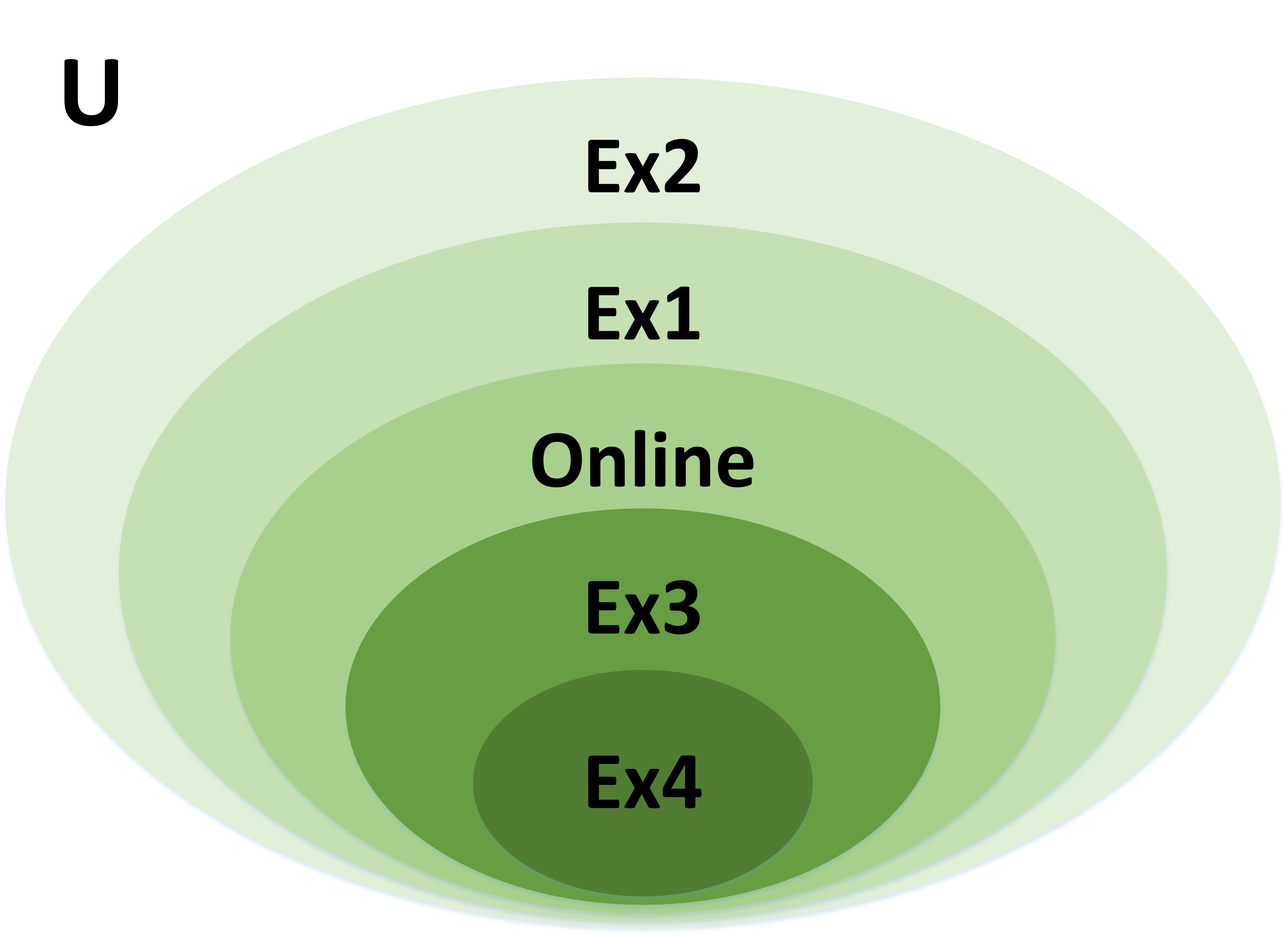
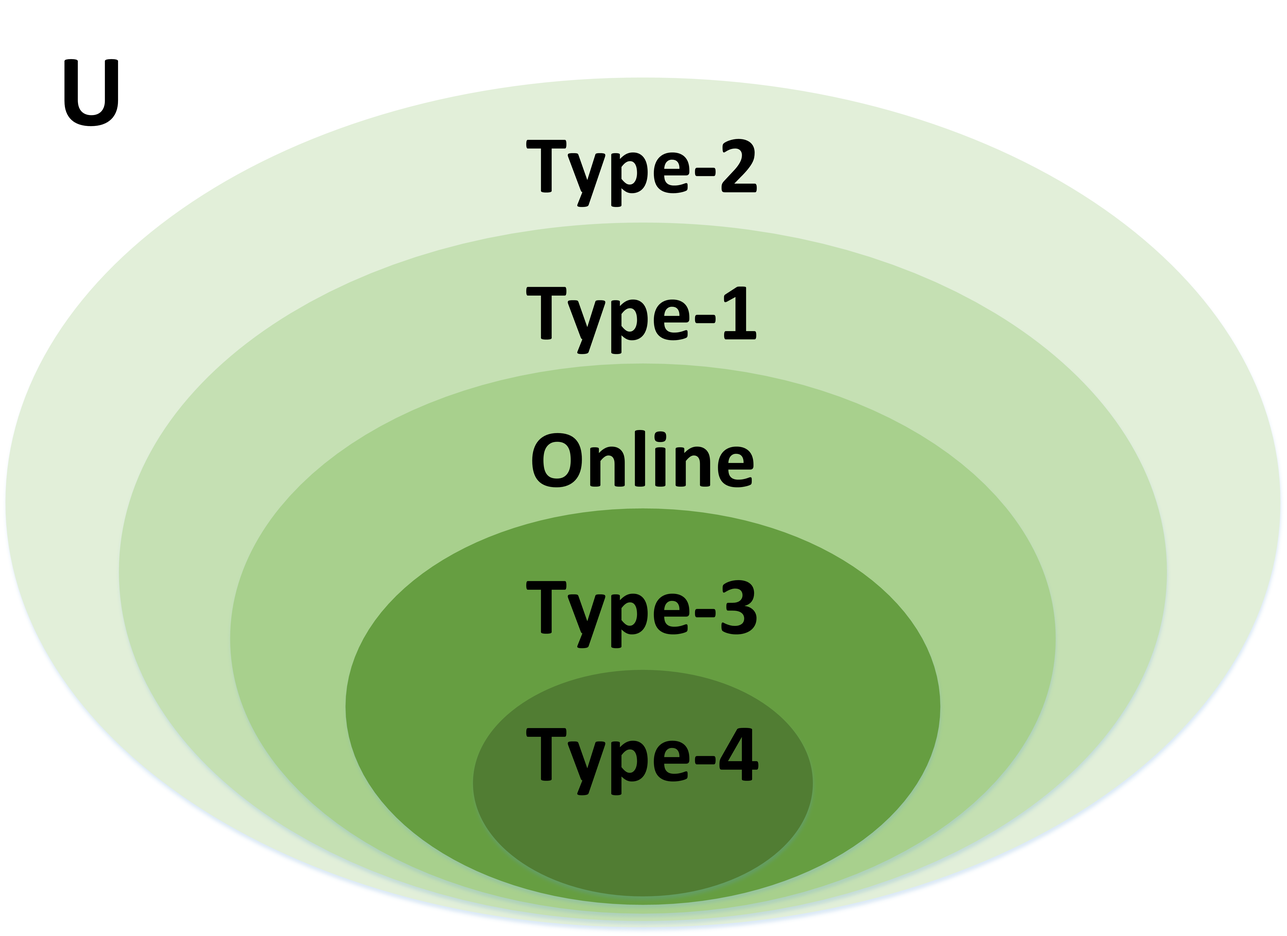
0704
0704

diff --git a/For journal/sec/preliminaries.tex b/For journal/sec/preliminaries.tex
@@ -35,7 +35,7 @@ And its updating rules
 %===========================================================
 In the definition, we have that % we have that in the directed graph
 \begin{itemize}
-	\item $m$, $n$ and $q$ represent the number of input-nodes, state-nodes and output-nodes respectively and $l$ represents the number of edges;
+	\item $m$, $n$ and $q$ represent the number of input-nodes, state-nodes and output-nodes respectively, $l$ represents the number of edges;
           \item every node in a \BCN\ can take a value from $\{0,1\}$ at a discrete time $t=0, 1, 2,\ldots$;
 	\item every directed edge from a state-node $\mathsf{s}_i$ (or an input-node $\mathsf{i}_w$) to a state-node $\mathsf{s}_j$ means that  $\mathsf{s}_j(t+1)$ is affected by $\mathsf{s}_i(t)$ (or $\mathfrak{i}_w(t)$);	
 	\item every directed edge from a state-node $\mathsf{s}_i$ to an output-node $\mathsf{o}_j$ means that   $\mathsf{o}_j(t)$  is affected by $\mathsf{s}_i(t)$.  
@@ -148,11 +148,11 @@ and
 %These mappings describe the relations of state ($\mathsf{s}(t)$), input sequence ($\mathsf{I}$), state sequence ($F^k_{\mathsf{s}(t)}(\mathsf{I})$ and $F^{\infty}_{\mathsf{s}(t)}(\mathsf{I})$) and output sequence ($(HF)^k_{\mathsf{s}(t)}(\mathsf{I})$ and $(HF)^{\infty}_{\mathsf{s}(t)}(\mathsf{I})$). 
 Then the four existing observability definitions are as follows.
 
-\begin{definition} [First Observability]
-The first type of observability is that, a \BCN\ is called observable, if for every initial state \State$^{x}(0)$$\in \Delta_N$, there exists an input sequence $\mathsf{I}^x\in(\Delta_M)^k$ for some $k>0$, such that for all states $\mathsf{s}^{y}(0)\neq \mathsf{s}^{x}(0)$, $h(\mathsf{s}^{y}(0))=h(\mathsf{s}^{x}(0))$ implies $(HF)^k_{\mathsf{s}^{y}(0)}(\mathsf{I}^x)\neq (HF)^k_{{\mathsf{s}^{x}(0)}}(\mathsf{I}^x)$ \cite{cheng2009controllability}.
+\begin{definition} [Type-1 Observability]
+The type-1 observability is that, a \BCN\ is called observable, if for every initial state \State$^{x}(0)$$\in \Delta_N$, there exists an input sequence $\mathsf{I}^x\in(\Delta_M)^k$ for some $k>0$, such that for all states $\mathsf{s}^{y}(0)\neq \mathsf{s}^{x}(0)$, $h(\mathsf{s}^{y}(0))=h(\mathsf{s}^{x}(0))$ implies $(HF)^k_{\mathsf{s}^{y}(0)}(\mathsf{I}^x)\neq (HF)^k_{{\mathsf{s}^{x}(0)}}(\mathsf{I}^x)$ \cite{cheng2009controllability}.
 \end{definition}
 
-The first observability means that a \BCN\ is observable if every \State$^{x}(0)$ of the \BCN\ can be distinguished from other types of initial state by an $\mathsf{I}^x$. %Thus, we can only check whether $\mathsf{s}(0)=\mathsf{s}^{x}(0)$ or not by $\mathsf{I}^x$. 
+The  type-1 observability means that a \BCN\ is observable if every \State$^{x}(0)$ of the \BCN\ can be distinguished from other types of initial state by an $\mathsf{I}^x$. %Thus, we can only check whether $\mathsf{s}(0)=\mathsf{s}^{x}(0)$ or not by $\mathsf{I}^x$. 
 \begin{example}
 For example, for the \BCN\ mentioned in {\em Example \ref{exa:2}}, we have every \State$^{x}(0)$ can be distinguished from other types of initial state by an $\mathsf{I}^x \in(\Delta_M)^k$.  For instance,
 \begin{itemize}
@@ -160,15 +160,15 @@ For example, for the \BCN\ mentioned in {\em Example \ref{exa:2}}, we have every
   \item $\delta_{16}^1$ can be distinguished from other types of initial state by any $\mathsf{I}^1$ with the prefix $\delta_{4}^0$, $\delta_{4}^3$ or $\delta_{4}^2 \delta_{4}^3$;
   \item $\delta_{16}^2$ can be distinguished from other types of initial state by any $\mathsf{I}^2$ with the prefix $\delta_{4}^1$, $\delta_{4}^3$ or $\delta_{4}^0 \delta_{4}^2$, etc.
 \end{itemize} 
-Therefore this \BCN\ satisfies the first observability.
+Therefore this \BCN\ satisfies the  type-1 observability.
 \label{exa:4}
 \end{example}   
 
-\begin{definition}[Second Observability]
-	The second type of observability is that, a \BCN\ is called observable if for every two distinct initial states $\mathsf{s}^{x}(0)$, $\mathsf{s}^{y}(0) \in \Delta_N$, there exists an input sequence $\mathsf{I}^{xy}\in(\Delta_M)^k$ for some $k>0$, such that $h(\mathsf{s}^{x}(0))=h(\mathsf{s}^{y}(0))$ implies $(HF)^k_{\mathsf{s}^{x}(0)}(\mathsf{I}^{xy})\neq (HF)^k_{\mathsf{s}^{y}(0)}(\mathsf{I}^{xy})$ \cite{Zhao2010Input}.
+\begin{definition}[ Type-2 Observability]
+	The  type-2 observability is that, a \BCN\ is called observable if for every two distinct initial states $\mathsf{s}^{x}(0)$, $\mathsf{s}^{y}(0) \in \Delta_N$, there exists an input sequence $\mathsf{I}^{xy}\in(\Delta_M)^k$ for some $k>0$, such that $h(\mathsf{s}^{x}(0))=h(\mathsf{s}^{y}(0))$ implies $(HF)^k_{\mathsf{s}^{x}(0)}(\mathsf{I}^{xy})\neq (HF)^k_{\mathsf{s}^{y}(0)}(\mathsf{I}^{xy})$ \cite{Zhao2010Input}.
 \end{definition}
 
-The second observability means that a \BCN\ is called observable if for every two distinct $\mathsf{s}^{x}(0)$, $\mathsf{s}^{y}(0)$, there exists an $\mathsf{I}^{xy}$ which can distinguish them. %Therfore, we can only check $\mathsf{s}(0)=\mathsf{s}^{x}(0)$ or $\mathsf{s}(0)=\mathsf{s}^{y}(0)$ when we know that $\mathsf{s}(0)$ is one of them by $\mathsf{I}^{xy}$. 
+The type-2 observability means that a \BCN\ is called observable if for every two distinct $\mathsf{s}^{x}(0)$, $\mathsf{s}^{y}(0)$, there exists an $\mathsf{I}^{xy}$ which can distinguish them. %Therfore, we can only check $\mathsf{s}(0)=\mathsf{s}^{x}(0)$ or $\mathsf{s}(0)=\mathsf{s}^{y}(0)$ when we know that $\mathsf{s}(0)$ is one of them by $\mathsf{I}^{xy}$. 
 \begin{example}
 For example, for the \BCN\ mentioned in {\em Example \ref{exa:2}}, we have for every two distinct $\mathsf{s}^{x}(0)$ and $\mathsf{s}^{y}(0)$, there exists an $\mathsf{I}^{xy}\in(\Delta_M)^k$ which can distinguish them.  For instance,
 \begin{itemize}
@@ -176,14 +176,14 @@ For example, for the \BCN\ mentioned in {\em Example \ref{exa:2}}, we have for e
   \item $\mathsf{I}^{02}$ with the prefix $\delta_{4}^1$ can distinguish $\delta_{16}^0$ and $\delta_{16}^2$;
   \item $\mathsf{I}^{12}$ with the prefix $\delta_{4}^3$ can distinguish $\delta_{16}^1$ and $\delta_{16}^2$.
 \end{itemize} 
-Therefore this \BCN\ satisfies the second observability.
+Therefore this \BCN\ satisfies the type-2 observability.
 \label{exa:5}
 \end{example}   
-\begin{definition}[Third Observability]
-The third type of observability is that, a \BCN\ is called observable if there exists an input sequence $\mathsf{I}\in(\Delta_M)^k$ for some $k>0$, such that for any two distinct states $\mathsf{s}^{x}(0)$, $\mathsf{s}^{y}(0) \in \Delta_N$, $h(\mathsf{s}^{x}(0))=h(\mathsf{s}^{y}(0))$ implies $(HF)^k_{\mathsf{s}^{x}(0)}(\mathsf{I})\neq (HF)^k_{\mathsf{s}^{y}(0)}(\mathsf{I})$ \cite{Cheng2011Identification}.
+\begin{definition}[Type-3 Observability]
+The type-3 observability is that, a \BCN\ is called observable if there exists an input sequence $\mathsf{I}\in(\Delta_M)^k$ for some $k>0$, such that for any two distinct states $\mathsf{s}^{x}(0)$, $\mathsf{s}^{y}(0) \in \Delta_N$, $h(\mathsf{s}^{x}(0))=h(\mathsf{s}^{y}(0))$ implies $(HF)^k_{\mathsf{s}^{x}(0)}(\mathsf{I})\neq (HF)^k_{\mathsf{s}^{y}(0)}(\mathsf{I})$ \cite{Cheng2011Identification}.
 \end{definition}
 
-The third observability means that a \BCN\ is called observable if there exists an $\mathsf{I}\in(\Delta_M)^k$ which determine the $\mathsf{s}(0)$ of the \BCN\ for every $\mathsf{s}(0)\in\Delta_N$, because $\mathsf{I}$ can distinguish any two distinct $\mathsf{s}^{x}(0)$, $\mathsf{s}^{y}(0)$.%, the $\mathsf{s}(0)$ is determined by its corresponding output sequence $(HF)^k_{\mathsf{s}(0)}(\mathsf{I})$.
+The type-3 observability means that a \BCN\ is called observable if there exists an $\mathsf{I}\in(\Delta_M)^k$ which determine the $\mathsf{s}(0)$ of the \BCN\ for every $\mathsf{s}(0)\in\Delta_N$, because $\mathsf{I}$ can distinguish any two distinct $\mathsf{s}^{x}(0)$, $\mathsf{s}^{y}(0)$.%, the $\mathsf{s}(0)$ is determined by its corresponding output sequence $(HF)^k_{\mathsf{s}(0)}(\mathsf{I})$.
 
 \begin{example}
 For example, for the \BCN\ mentioned in {\em Example \ref{exa:2}}, for any $k>0$, there is not any $\mathsf{I}\in(\Delta_M)^k$ which can determine the $\mathsf{s}(0)$ of this \BCN:
@@ -193,17 +193,17 @@ For example, for the \BCN\ mentioned in {\em Example \ref{exa:2}}, for any $k>0$
   \item any $\mathsf{I}$ with prefix $\delta_{4}^2$ can not distinguish $\delta_{16}^3$ and $\delta_{16}^{4}$;
   \item any $\mathsf{I}$ with prefix $\delta_{4}^3$ can not distinguish $\delta_{16}^{14}$ and $\delta_{16}^{15}$.
 \end{itemize} 
-Therefore it does not satisfy the existing third observability. 
+Therefore it does not satisfy the type-3 observability. 
 \label{exa:6}
 \end{example}  
-\begin{definition}[Fourth Observability]
-	The fourth type of observability is that, \BCN\ is called observable, if there is a $k$ such that for every input sequence $\mathsf{I}\in(\Delta_M)^{k}$, for any two distinct states $\mathsf{s}^{x}(0)$, $\mathsf{s}^{y}(0) \in \Delta_N$, $h(\mathsf{s}^{x}(0))=h(\mathsf{s}^{y}(0))$ implies $(HF)^{k}_{\mathsf{s}^{x}(0)}(\mathsf{I})\neq (HF)^{k}_{\mathsf{s}^{y}(0)}(\mathsf{I})$ \cite{Fornasini2013Observability}.
+\begin{definition}[Type-4 Observability]
+	The type-4 observability is that, \BCN\ is called observable, if there is a $k$ such that for every input sequence $\mathsf{I}\in(\Delta_M)^{k}$, for any two distinct states $\mathsf{s}^{x}(0)$, $\mathsf{s}^{y}(0) \in \Delta_N$, $h(\mathsf{s}^{x}(0))=h(\mathsf{s}^{y}(0))$ implies $(HF)^{k}_{\mathsf{s}^{x}(0)}(\mathsf{I})\neq (HF)^{k}_{\mathsf{s}^{y}(0)}(\mathsf{I})$ \cite{Fornasini2013Observability}.
 \end{definition}
 
-The fourth observability means that a \BCN\ is called observable if every sufficient long $\mathsf{I}\in(\Delta_M)^{k}$ can determine the $\mathsf{s}(0)$ of the \BCN\ for every $\mathsf{s}(0)\in\Delta_N$, because every $\mathsf{s}(0)\in\Delta_N$ can distinguish any two $\mathsf{s}^{x}(0)$, $\mathsf{s}^{y}(0)$.%, the $\mathsf{I}$ can be determined by its output sequence $(HF)^k_{\mathsf{s}(0)}(\mathsf{I})$.
+The type-4 observability means that a \BCN\ is called observable if every sufficient long $\mathsf{I}\in(\Delta_M)^{k}$ can determine the $\mathsf{s}(0)$ of the \BCN\ for every $\mathsf{s}(0)\in\Delta_N$, because every $\mathsf{s}(0)\in\Delta_N$ can distinguish any two $\mathsf{s}^{x}(0)$, $\mathsf{s}^{y}(0)$.%, the $\mathsf{I}$ can be determined by its output sequence $(HF)^k_{\mathsf{s}(0)}(\mathsf{I})$.
 \begin{example}
 For example, for the \BCN\ mentioned in {\em Example \ref{exa:2}}, we have there exists at least one sufficient long $\mathsf{I}$ that can not determine the $\mathsf{I}$ of this \BCN. For instance, any $\mathsf{I}$ with prefix $\delta_{4}^0$ can not can not distinguish $\delta_{16}^9$ and $\delta_{16}^{10}$. 
-Therefore this \BCN\ does not satisfy the fourth observability. 
+Therefore this \BCN\ does not satisfy the type-4 observability. 
 \label{exa:7}
 \end{example}  
 
@@ -215,7 +215,7 @@ The implication relationships of four existing types of observability shown in F
 		\centerline{\includegraphics[scale=0.27]{figures/Fig9.png}}
 	}}
       
-      \caption{The implication relationships graph between existing observability 1, 2, 3, 4, where ``$\rightarrow$" means ``implies".}
+      \caption{The implication relationships graph between observability type-1, type-2, type-3 and type-4, where ``$\rightarrow$" means ``implies".}
       \label{fig:9}
    \end{figure}
 
@@ -225,7 +225,7 @@ The implication relationships of four existing types of observability shown in F
 
  
 %However, in some biological systems which depicted by \BCNs, the initial states of them can be checked at most once. Therefore,
-The first observability and second observability are designed to determine the initial states of \BCNs\ by taking the determining procedure multiple times in parallel, and the third and fourth observability are designed to determine the initial states of \BCNs\ by taking the determining procedure once. What is more, the second observability is the necessary and sufficient condition of determining $\mathsf{s}(0)$ by taking the determining procedure multiple times in parallel \cite{Zhao2010Input}.
+The type-1 observability and type-2 observability are designed to determine the initial states of \BCNs\ by taking the determining procedure multiple times in parallel, and the type-3 and type-4 observability are designed to determine the initial states of \BCNs\ by taking the determining procedure once. What is more, the type-2 observability is the necessary and sufficient condition of determining $\mathsf{s}(0)$ by taking the determining procedure multiple times in parallel \cite{Zhao2010Input}.
 %As the first observability and second observability are designed to determine the initial states of \BCNs\ by taking the determining procedure multiple times in parallel. %\tl{why this claim?} 
 %And in some applications, we have to determine \BCNs' initial states by taking the determining procedure once. The third and fourth observability are designed to determine the initial states of \BCNs\ by taking the determining procedure once. But if a \BCN\ is not satisfy the third observability, we can not use them to determine its initial states by taking the determining procedure once.  %Thus, we propose the online observability of \BCNs\ to solve the problem.
 %Moreover, in some biological systems, it would takes many costs to check these biological systems. Hence it would cost a lot of overhead for us to determine the initial state of them by the first observability and second observability.

diff --git a/For journal/sec/introduction.tex b/For journal/sec/introduction.tex
@@ -50,20 +50,21 @@ And we use $\mathsf{s}^{x}(t)$ and $\mathsf{s}^{y}(t)$ to represent different va
 
 Then the four existing observability of \BCNs\ can be described as follows. 
 \tl{I suggest use type I, II, III, IV to refer to them}
+\gs{I have corrected this one.}
 \begin{enumerate}
-	\item The first type of observability was proposed in 2009 \cite{cheng2009controllability}, and it states that a \BCN\ $\BB$ is observable if for every $\mathsf{s}^{x}(0)$ there is an $\mathsf{i}(0)\mathsf{i}(1)\ldots\mathsf{i}(k-1)$ that can distinguish $\mathsf{s}^{x}(0)$ from other types of initial states. That is in the $\BB$, for the $\mathsf{s}^{x}(0)$ and $\mathsf{i}(0)$$\mathsf{i}(1)\ldots$$\mathsf{i}(k-1)$, for every $\mathsf{s}^{y}(0)\ne\mathsf{s}^{x}(0)$, the corresponding $\mathsf{o}^{y}(0)$$\mathsf{o}^{y}(1)\ldots$$\mathsf{o}^{y}(k)$ of $\mathsf{s}^{y}(0)$ is different from the corresponding $\mathsf{o}^{x}(0)$$\mathsf{o}^{x}(1)\ldots$$\mathsf{o}^{x}(k)$ of $\mathsf{s}^{x}(0)$. 
+	\item The  type-1 observability was proposed in 2009 \cite{cheng2009controllability}, and it states that a \BCN\ $\BB$ is observable if for every $\mathsf{s}^{x}(0)$ there is an $\mathsf{i}(0)\mathsf{i}(1)\ldots\mathsf{i}(k-1)$ that can distinguish $\mathsf{s}^{x}(0)$ from other types of initial states. That is in the $\BB$, for the $\mathsf{s}^{x}(0)$ and $\mathsf{i}(0)$$\mathsf{i}(1)\ldots$$\mathsf{i}(k-1)$, for every $\mathsf{s}^{y}(0)\ne\mathsf{s}^{x}(0)$, the corresponding $\mathsf{o}^{y}(0)$$\mathsf{o}^{y}(1)\ldots$$\mathsf{o}^{y}(k)$ of $\mathsf{s}^{y}(0)$ is different from the corresponding $\mathsf{o}^{x}(0)$$\mathsf{o}^{x}(1)\ldots$$\mathsf{o}^{x}(k)$ of $\mathsf{s}^{x}(0)$. 
 	%------------------------------
 	\item 
-	The second observability was proposed in 2010 \cite{Zhao2010Input}, and it is determined in \cite{Li2015Controllability}. It states that a \BCN\ $\BB$ is observable if for every two distinct $\mathsf{s}^{x}(0)$ and $\mathsf{s}^{y}(0)$, there is an $\mathsf{i}(0)$$\mathsf{i}(1)\ldots$$\mathsf{i}(k-1)$ that can distinguish them. That is in the $\BB$, for the $\mathsf{s}^{x}(0)$, $\mathsf{s}^{y}(0)$ and $\mathsf{i}(0)\mathsf{i}(1)\ldots\mathsf{i}(k-1)$, the corresponding $\mathsf{o}^{x}(0)\mathsf{o}^{x}(1)\ldots\mathsf{o}^{x}(k)$ of $\mathsf{s}^{x}(0)$ and the corresponding $\mathsf{o}^{y}(0)\mathsf{o}^{y}(1)\ldots\mathsf{o}^{y}(k)$ of $\mathsf{s}^{y}(0)$ are different.
-	\item The third observability proposed in 2011 \cite{Cheng2011Identification}, and it states that a \BCN\ $\BB$ is observable if there is an $\mathsf{i}(0)$$\mathsf{i}(1)\ldots$$\mathsf{i}(k-1)$ that determines $\mathsf{s}(0)$. That is in the $\BB$, for the $\mathsf{i}(0)$$\mathsf{i}(1)\ldots$$\mathsf{i}(k-1)$, for every two distinct $\mathsf{s}^{x}(0)$ and $\mathsf{s}^{x}(0)$, the corresponding $\mathsf{o}^{x}(0)$$\mathsf{o}^{x}(1)\ldots$$\mathsf{o}^{x}(k)$ of $\mathsf{s}^{x}(0)$ is different from the corresponding $\mathsf{o}^{y}(0)$$\mathsf{o}^{y}(1)\ldots$$\mathsf{o}^{y}(k)$ of $\mathsf{s}^{y}(0)$.
+	The  type-2 observability was proposed in 2010 \cite{Zhao2010Input}, and it is determined in \cite{Li2015Controllability}. It states that a \BCN\ $\BB$ is observable if for every two distinct $\mathsf{s}^{x}(0)$ and $\mathsf{s}^{y}(0)$, there is an $\mathsf{i}(0)$$\mathsf{i}(1)\ldots$$\mathsf{i}(k-1)$ that can distinguish them. That is in the $\BB$, for the $\mathsf{s}^{x}(0)$, $\mathsf{s}^{y}(0)$ and $\mathsf{i}(0)\mathsf{i}(1)\ldots\mathsf{i}(k-1)$, the corresponding $\mathsf{o}^{x}(0)\mathsf{o}^{x}(1)\ldots\mathsf{o}^{x}(k)$ of $\mathsf{s}^{x}(0)$ and the corresponding $\mathsf{o}^{y}(0)\mathsf{o}^{y}(1)\ldots\mathsf{o}^{y}(k)$ of $\mathsf{s}^{y}(0)$ are different.
+	\item The  type-3 observability proposed in 2011 \cite{Cheng2011Identification}, and it states that a \BCN\ $\BB$ is observable if there is an $\mathsf{i}(0)$$\mathsf{i}(1)\ldots$$\mathsf{i}(k-1)$ that determines $\mathsf{s}(0)$. That is in the $\BB$, for the $\mathsf{i}(0)$$\mathsf{i}(1)\ldots$$\mathsf{i}(k-1)$, for every two distinct $\mathsf{s}^{x}(0)$ and $\mathsf{s}^{x}(0)$, the corresponding $\mathsf{o}^{x}(0)$$\mathsf{o}^{x}(1)\ldots$$\mathsf{o}^{x}(k)$ of $\mathsf{s}^{x}(0)$ is different from the corresponding $\mathsf{o}^{y}(0)$$\mathsf{o}^{y}(1)\ldots$$\mathsf{o}^{y}(k)$ of $\mathsf{s}^{y}(0)$.
 	
-	\item  The fourth observability proposed in 2013 \cite{Fornasini2013Observability}. It states that a \BCN\ $\BB$ is observable if every sufficient long $\mathsf{i}(0)$$\mathsf{i}(1)\ldots$$\mathsf{i}(k-1)$ can determine $\mathsf{s}(0)$. That is in the $\BB$, for every sufficient long $\mathsf{i}(0)$$\mathsf{i}(1)\ldots$ $\mathsf{i}(k-1)$, for every two distinct $\mathsf{s}^{x}(0)$ and $\mathsf{s}^{y}(0)$, the corresponding $\mathsf{o}^{x}(0)$$\mathsf{o}^{x}(1)\ldots$$\mathsf{o}^{x}(k)$ of $\mathsf{s}^{x}(0)$ is different from the corresponding $\mathsf{o}^{y}(0)$$\mathsf{o}^{y}(1)\ldots$$\mathsf{o}^{y}(k)$ of $\mathsf{s}^{y}(0)$.
+	\item  The  type-4 observability proposed in 2013 \cite{Fornasini2013Observability}. It states that a \BCN\ $\BB$ is observable if every sufficient long $\mathsf{i}(0)$$\mathsf{i}(1)\ldots$$\mathsf{i}(k-1)$ can determine $\mathsf{s}(0)$. That is in the $\BB$, for every sufficient long $\mathsf{i}(0)$$\mathsf{i}(1)\ldots$ $\mathsf{i}(k-1)$, for every two distinct $\mathsf{s}^{x}(0)$ and $\mathsf{s}^{y}(0)$, the corresponding $\mathsf{o}^{x}(0)$$\mathsf{o}^{x}(1)\ldots$$\mathsf{o}^{x}(k)$ of $\mathsf{s}^{x}(0)$ is different from the corresponding $\mathsf{o}^{y}(0)$$\mathsf{o}^{y}(1)\ldots$$\mathsf{o}^{y}(k)$ of $\mathsf{s}^{y}(0)$.
 \end{enumerate}
  Their formal definitions will be presented in Section~\ref{sec:pre}.
 
 %{\color{red} (13)} 
 Loosely speaking, the four types of observability can be classified into two categories: ...
-In the four notions of observability, the first and the second ones determine $\mathsf{s}(0)$ by running the respective procedure multiple times in parallel, and the third and the fourth ones determine $\mathsf{s}(0)$ by taking the determining procedure once. For the details of these propositions, we refer readers to \cite{cheng2009controllability, Zhao2010Input, Cheng2011Identification,Fornasini2013Observability}. %And the second observability is the necessary and sufficient condition of determining $\mathsf{s}(0)$ by taking the determining procedure once. 
+In the four notions of observability, the type-1 and type-2 determine $\mathsf{s}(0)$ by running the respective procedure multiple times in parallel, and the type-3 and type-4 determine $\mathsf{s}(0)$ by taking the determining procedure once. For the details of these propositions, we refer readers to \cite{cheng2009controllability, Zhao2010Input, Cheng2011Identification,Fornasini2013Observability}. %And the second observability is the necessary and sufficient condition of determining $\mathsf{s}(0)$ by taking the determining procedure once. 
 
 In this paper, we address the necessary and sufficient condition of determining $\mathsf{s}(0)$ by taking the determining procedure once. %It enriches the control-theory of \BCNs, it can help us determine the $\mathsf{s}(0)$ of some \BCNs\ which can not be determined before.
 
@@ -77,19 +78,19 @@ In this paper, we address the necessary and sufficient condition of determining 
 %Only third and fourth notions of observability can help us solve the {\em Problem~\ref{pro:1}}.
 % What is more, in the third observability, a \BCN\ is observable iff there is an input sequence that determines its initial state $\mathsf{s}(0)$. Thus its condition is very strong, and the condition of fourth observability is even stronger.
 %However, 
-Let $\mathsf{S}(t)$ denote the set of possible valuations of $\mathsf{s}(t)$. 
+Let $\mathsf{S}(t)$ denote the set of possible valuations of $\mathsf{s}(t)$. Then naturally there is a procedure which is described as follows.
 
-\tl{you mean naturally there is a procedure which is described as follows?}
-We find that to determine $\mathsf{s}(0)$ by taking the determining procedure once we only need to complete the following procedure. 
+\tl{you mean naturally there is a procedure which is described as follows?}\gs{Yes.}
+%We find that to determine $\mathsf{s}(0)$ by taking the determining procedure once we only need to complete the following procedure. 
 
 %Informly, the procedure of our  online observability as follows. 
  %Then $\mathsf{S}(t)$ can be derived by the output sequence $\mathsf{o}(0)\mathsf{o}(1)\ldots\mathsf{o}(t)$, input sequence $\mathsf{i}(0)\mathsf{i}(1)\ldots\mathsf{i}(t-1)$ and updating rules of $\BB$.
  
- \tl{can you make this a proper algorithm?}
+ \tl{can you make this a proper algorithm?}\gs{I have corrected this one.}
 \begin{description}
-	\item[Step 1] at every time step we infer $\mathsf{S}(t)$ by the $\mathsf{o}(t)$ and the relation of $\mathsf{o}(t)$ and $\mathsf{s}(t)$.
-	\item Secondly, according to the relation of $\mathsf{i}(t)$, $\mathsf{s}(t)$ and $\mathsf{s}(t+1)$ we input an $\mathsf{i}(t)$ which would not make every two distinct $\mathsf{s}^{x}(t)$ , $\mathsf{s}^{y}(t)$$\in$ $\mathsf{S}(t)$ become the same state after affected by $\mathsf{i}(t)$ i.e. $\mathsf{s}^{x}(t+1)\ne\mathsf{s}^{y}(t+1)$. Therefore, for every $\mathsf{s}^{x}(t+1)\in $ $\mathsf{S}(t+1)$ there is exact one corresponding $\mathsf{s}^{x}(t)\in $ $\mathsf{S}(t)$.
-	\item Thirdly, we have $|$$\mathsf{S}(t)$$|\le|$$\mathsf{S}(t-1)$$|$, and we can determine $\mathsf{s}(t)$ when $|$$\mathsf{S}(t)$$|=1$. As for every $\mathsf{s}^{x}(t)\in $ $\mathsf{S}(t)$ there is exact one corresponding $\mathsf{s}^{x}(t-1)\in $ $\mathsf{S}(t-1)$ we can determine $\mathsf{s}(t-1)$, $\mathsf{s}(t-2)$, \ldots, $\mathsf{s}(0)$.
+	\item[Step 1] At every time step we infer $\mathsf{S}(t)$ by the $\mathsf{o}(t)$ and the relation of $\mathsf{o}(t)$ and $\mathsf{s}(t)$.
+	\item[Step 2] According to the relation of $\mathsf{i}(t)$, $\mathsf{s}(t)$ and $\mathsf{s}(t+1)$ we choose an $\mathsf{i}(t)$ which would not make every two distinct $\mathsf{s}^{x}(t)$ , $\mathsf{s}^{y}(t)$$\in$ $\mathsf{S}(t)$ become the same state after affected by $\mathsf{i}(t)$ i.e. $\mathsf{s}^{x}(t+1)\ne\mathsf{s}^{y}(t+1)$. Such that, for every $\mathsf{s}^{x}(t+1)\in $ $\mathsf{S}(t+1)$ there is exact one corresponding $\mathsf{s}^{x}(t)\in $ $\mathsf{S}(t)$.
+	\item[Step 3] Repeating Step 1 and Step 2 we can determine $\mathsf{s}(t)$, and for every $t>0$, for every $\mathsf{s}^{x}(t)\in \mathsf{S}(t)$ there is exact one corresponding $\mathsf{s}^{x}(t-1)\in \mathsf{S}(t-1)$, so we can determine $\mathsf{s}(t-1)$, \ldots, $\mathsf{s}(0)$.
 \end{description}
 
 %In the third observability, we can finish this procedure, thus we can determine the initial state \State$(0)$ for a \BCN. What is more, 
@@ -97,11 +98,11 @@ We find that to determine $\mathsf{s}(0)$ by taking the determining procedure on
 
 %Such that, the requirement for a \BCN\ to determine \State$(0)$ would be easist to satisfy. 
 %{\color{red} (13)} 
-Inspired by this procedure, we propose a new notion of observability named online observability to address the necessary and sufficient condition of determining $\mathsf{s}(0)$ by taking the determining procedure once. It states that a \BCN\ $\BB$ is observable if the previously mentioned procedure can be completed {\bf definitely}. Its formal definitions will be presented in Section~\ref{sec:online}. 
+Inspired by this procedure, we propose a new notion of observability named online observability to address the necessary and sufficient condition of determining $\mathsf{s}(0)$ by taking the determining procedure once. It states that a \BCN\ $\BB$ is observable if the previously mentioned procedure would terminates. Its formal definitions will be presented in Section~\ref{sec:online}. 
 
 We call this observability online observability, because we observe $\mathsf{o}(t)$ of \BCN\ and choose $\mathsf{i}(t)$ based on the information we have collected so far at every time step $t$. 
 
-In contrast, in the third and fourth observability we determine $\mathsf{s}(0)$ of \BCN\ by its recorded $\mathsf{o}(0)\mathsf{o}(1)\ldots\mathsf{o}(k)$ after we input $\mathsf{i}(0)\mathsf{i}(1)\ldots\mathsf{i}(k-1)$, and  we do not interfere with \BCN\ except for the logging of its inputs and outputs, thus we call them offline offline observability \cite{Cassar2017A}. %{\color{red} (13)}
+In contrast, in the type-3 and type-4 observability we determine $\mathsf{s}(0)$ of \BCN\ by its recorded $\mathsf{o}(0)\mathsf{o}(1)\ldots\mathsf{o}(k)$ after we input $\mathsf{i}(0)\mathsf{i}(1)\ldots\mathsf{i}(k-1)$, and  we do not interfere with \BCN\ except for the logging of its inputs and outputs, thus we call them offline observability \cite{Cassar2017A}. %{\color{red} (13)}
 
 %Then, in this paper we make the following contributions. 
 \subsubsection*{Contributions}

diff --git a/For journal/sec/onlineobservability.tex b/For journal/sec/onlineobservability.tex
@@ -45,7 +45,7 @@ we utilize the following procedure
 Clearly, $|\mathsf{S}(t+1)|\le|\mathsf{S}(t)|$, and we can determine $\mathsf{s}(t)$  when $|\mathsf{S}(t)|$ becomes $1$. Because for every $\mathsf{s}^{i}(t)\in $ $\mathsf{S}(t)$ there is exact one corresponding $\mathsf{s}^{i}(t-1)\in $ $\mathsf{S}(t-1)$, we can determine $\mathsf{s}(t-1)$, $\mathsf{s}(t-2)$, \ldots, $\mathsf{s}(0)$.
 %And in this procedure, instead of finding the  $\mathsf{I}$ to determine $\mathsf{s}(0)$ before we take the determining procedure. We use the $\mathsf{S}(t)$ we derive at every time step $t$ to adaptively construct $\mathsf{I}$. 
 
-Based on this procedure, we propose the online observability, viz., a \BCN\ is observable if the previously mentioned procedure to determine $\mathsf{s}(0)$ can be completed {\bf definitely}.  \tl{do you mean that the procedure terminates?}
+Based on this procedure, we propose the online observability, viz., a \BCN\ is observable if the procedure to determine $\mathsf{s}(0)$ would terminates.  \tl{do you mean that the procedure terminates?} \gs{Yes} 
 
 
 %We will formally define it in following subsections, 
@@ -83,7 +83,7 @@ If $\mathsf{o}\neq \varepsilon$
 \begin{equation*}
  \Ded( \mathsf{S},  \mathsf{i},  \mathsf{o})=\{  \xi(\mathsf{i}, s ) \mid  \mathsf{s} \in \mathsf{S},  h(\xi(\mathsf{i}, s ))=\mathsf{o}\}
 \end{equation*}
-If $\mathsf{o}\neq \varepsilon$
+If $\mathsf{o}= \varepsilon$
 \begin{equation*}
 \Ded( \mathsf{S},  \mathsf{i},  \mathsf{o})=\{  \xi(\mathsf{i}, s ) \mid  \mathsf{s} \in \mathsf{S}\}
 \end{equation*}
@@ -94,7 +94,7 @@ If $\mathsf{o}\neq \varepsilon$
 %\end{split}
 %\end{equation*}
 where $\mathsf{S}\in 2^{\Delta_N}$, $\mathsf{i} \in (\Delta_M\cup\varepsilon)$, $\mathsf{o} \in (\Delta_Q\cup\varepsilon)$, $\varepsilon$ presents empty input or output.
-\tl{check whether this is what you want!?}
+\tl{check whether this is what you want!?}\gs{It is ok.}
 \end{definition}
 
  Then we have $\mathsf{S}(t)$ is defined as follows. 

diff --git a/For journal/sec/determining.tex b/For journal/sec/determining.tex
@@ -11,7 +11,7 @@ We define a directed graph for \BCN\ named input-labelled graph. Based on the in
 \begin{definition}[Input-labelled Graph]
 Let $\mathcal{V}$, $\mathcal{E}$ and $\mathcal{L}$ be the vertex set, the edge set and the labelling function of an input-labelled graph $\mathcal{G}=(\mathcal{V}, \mathcal{E}, \mathcal{L})$. $\mathcal{G}$ is called the input-labelled graph of the \BCN\, if 
 \begin{itemize}
-\item  $\mathcal{V}=\{\mathsf{S}\in\bigcup_{j=0}^{(2^m -1)} 2^{\Ded(\Delta_N,\varepsilon,\delta^j_{2^m} )}|\Ks(\mathsf{S})\ne \infty\}$;
+\item  $\mathcal{V}=\{\mathsf{S}\in\bigcup_{j=0}^{(2^m -1)} 2^{\Ded(\Delta_N,\varepsilon,\delta^j_{2^m} )}|\ \Ks(\mathsf{S})\ne \infty\}$;
 \item  $\mathcal{E}=\{(\mathsf{S}_1,\mathsf{S}_2)\in \mathcal{V}\times \mathcal{V}|$ there is an $\mathsf{i} \in \Delta_M$ such that $|\Ded\left(\mathsf{S}_1,\mathsf{i},\varepsilon\right)|=|\mathsf{S}_1|$, and for every $\Ded(\mathsf{S}_1,\mathsf{i},\mathsf{o}^{j})\neq \emptyset$ $\Ded(\mathsf{S}_1,\mathsf{i},\mathsf{o}^{j})\in \mathcal{V}$, $\mathsf{S}_2\in\{\Ded(\mathsf{S}_1,\mathsf{i},\mathsf{o})| \Ded(\mathsf{S}_1,\mathsf{i},\mathsf{o})\neq \emptyset, \mathsf{o}\in \Delta_Q\}\}$;
 \item  $\mathcal{L}:\mathcal{E}\mapsto 2^{\Delta_M}=(\mathsf{S}_1,\mathsf{S}_2)\mapsto\{\mathsf{i}\in \Delta_M|$ $|\Ded\left(\mathsf{S}_1,\mathsf{i},\varepsilon\right)|=|\mathsf{S}_1|$, and for every $\Ded(\mathsf{S}_1,\mathsf{i},\mathsf{o}^{j})\neq \emptyset$, $\Ded(\mathsf{S}_1,\mathsf{i},\mathsf{o}^{j})\in \mathcal{V}$, $\mathsf{S}_2\in\{\Ded(\mathsf{S}_1,\mathsf{i},\mathsf{o})| \Ded(\mathsf{S}_1,\mathsf{i},\mathsf{o})\neq \emptyset, \mathsf{o}\in \Delta_Q\}\}$.
  \end{itemize}

diff --git a/For journal/sec/appendix.tex b/For journal/sec/appendix.tex
@@ -57,7 +57,7 @@ As the propostion is right when $\Ks(\mathsf{S}(t))=0$, and we have if for $\Ks(
 Secondly, we have that if a \BCN\ is online observable,
 then for every  non-empty $\Ded\left(\Delta_N,\varepsilon, \mathsf{o}^{j}(0)\right)$, $\Ks(\Ded\left(\Delta_N,\varepsilon, \mathsf{o}^{j}(0)\right))\ne \infty$
 
-Therefore, we have for every initial state \State$^{x}(0)$$\in \Delta_N$, there exists an input sequence $\mathsf{I}\in(\Delta_M)^{k^i}$ for some $k^i >0$ such that for all states $\mathsf{s}^{y}(0)\neq \mathsf{s}^{x}(0)$, $h(\mathsf{s}^{y}(0))=h(\mathsf{s}^{x}(0))$ implies $(HF)^{k^i}_{\mathsf{s}^{y}(0)}(\mathsf{I})\neq (HF)^{k^i}_{{\mathsf{s}^{x}(0)}}(\mathsf{I})$. Thus the \BCN\ satisfies the first observability if it is online observable.
+Therefore, we have for every initial state \State$^{x}(0)$$\in \Delta_N$, there exists an input sequence $\mathsf{I}\in(\Delta_M)^{k^i}$ for some $k^i >0$ such that for all states $\mathsf{s}^{y}(0)\neq \mathsf{s}^{x}(0)$, $h(\mathsf{s}^{y}(0))=h(\mathsf{s}^{x}(0))$ implies $(HF)^{k^i}_{\mathsf{s}^{y}(0)}(\mathsf{I})\neq (HF)^{k^i}_{{\mathsf{s}^{x}(0)}}(\mathsf{I})$. Thus the \BCN\ satisfies the  type-1 observability if it is online observable.
 \end{proof}
 
 \subsection{Proof of Lemma \ref{lemm:4}}

diff --git a/For journal/sec/applications.tex b/For journal/sec/applications.tex
@@ -49,6 +49,7 @@ Such that, at every time step, with $\mathsf{S}(t)$ we derived, we can decide $\
 \frac{\sum_{j=1}^k (\Spe(\mathsf{S}^{j})-\Pe(\mathsf{S}, \mathsf{ i}^{i})+1)^2 |\mathsf{S}^{j}|}{ |\mathsf{S}|}      &      & {|\mathsf{S}|>1}
 \end{array} \right. \]
 \end{definition}
+
 If the $\Pv(\mathsf{S}(t), \mathsf{i}^{i}(t))$ is not very large, the risk of choosing $\mathsf{ i}^{i}(t)$ would be not very great either.
 %From the definition of the $\Pv(\mathsf{S}, \mathsf{ i}^{i})$, we have that 
 \subsection{Avoiding entering critical states}

diff --git a/For journal/def.tex b/For journal/def.tex
@@ -20,6 +20,7 @@
 
 \newcommand{\tl}[1]{\textcolor{blue} {TL: #1 :TL} }
 \newcommand{\ly}[1]{\textcolor{red} {LY: #1 :LY} }
+\newcommand{\gs}[1]{\textcolor{green} {GS: #1 :GS} }
 
 % *** Do not adjust lengths that control margins, column widths, etc. ***
 % *** Do not use packages that alter fonts (such as pslatex).         ***
